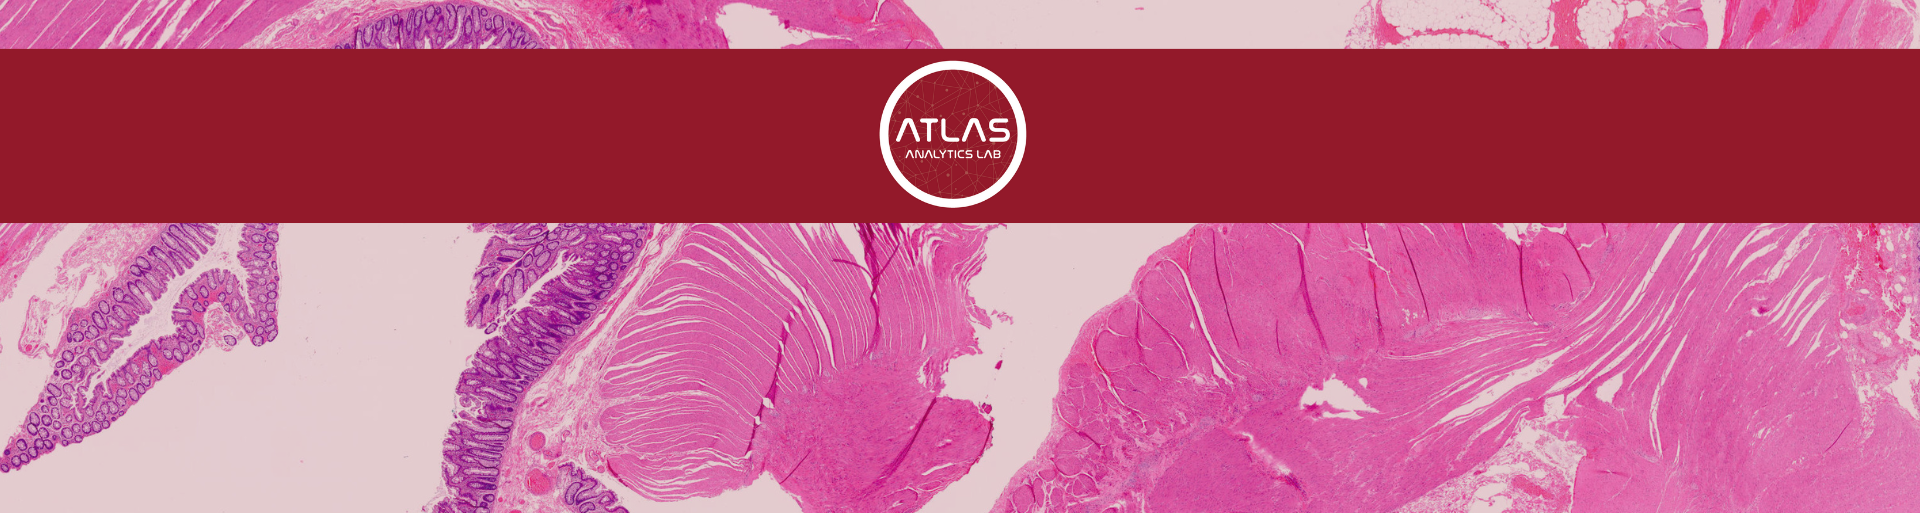
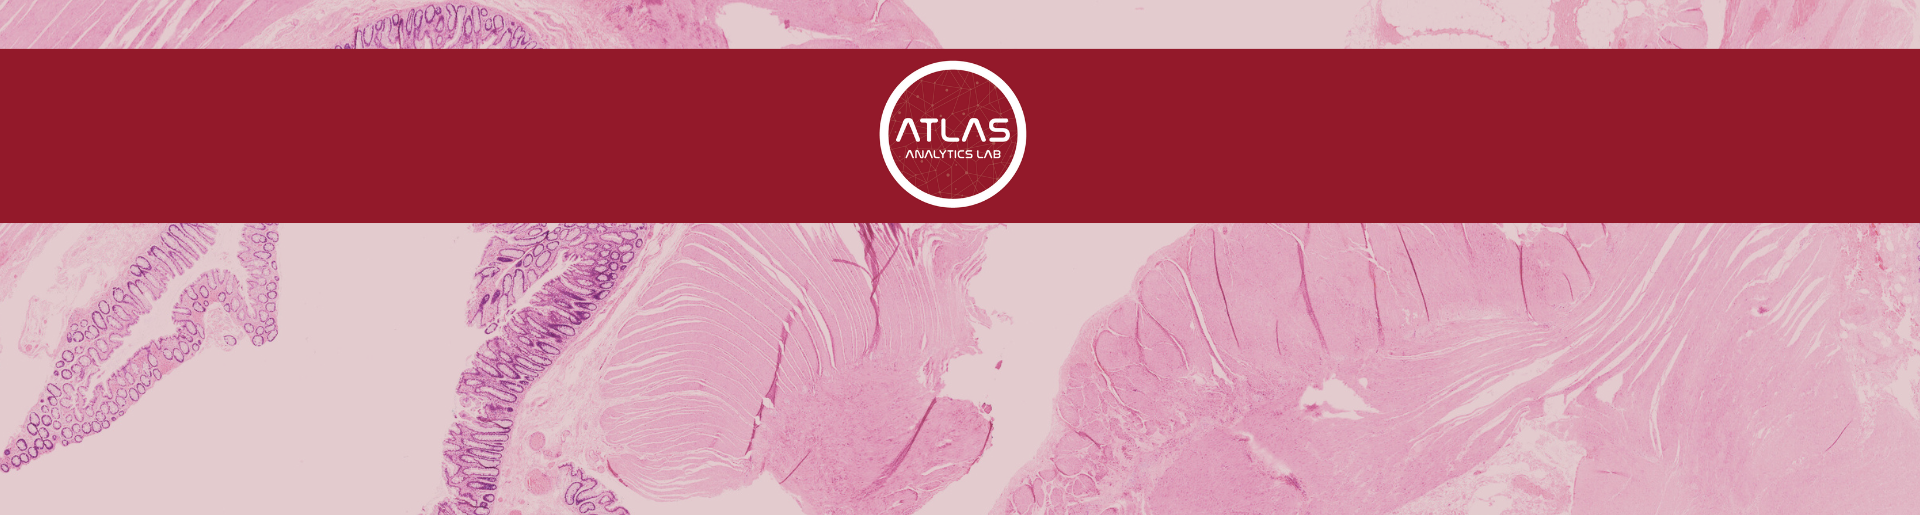
Changed BG and added credits

diff --git a/index.html b/index.html
@@ -409,6 +409,11 @@
                     <i class="fa fa-envelope-o fa-3x wow bounceIn" data-wow-delay=".1s"></i>
                     <p><a href="mailto:mahdi.hosseini@concordia.ca">mahdi.hosseini@concordia.ca</a></p>
                 </div>
+                <div class="col-lg-8 col-lg-offset-2 text-center">
+                    <hr class="primary">
+                    Credits: this website has been inspired by <a href="https://uvadlc.github.io">UVA Deep Learning Course</a>
+                    </p>
+                </div>
             </div>
         </div>
     </section>
